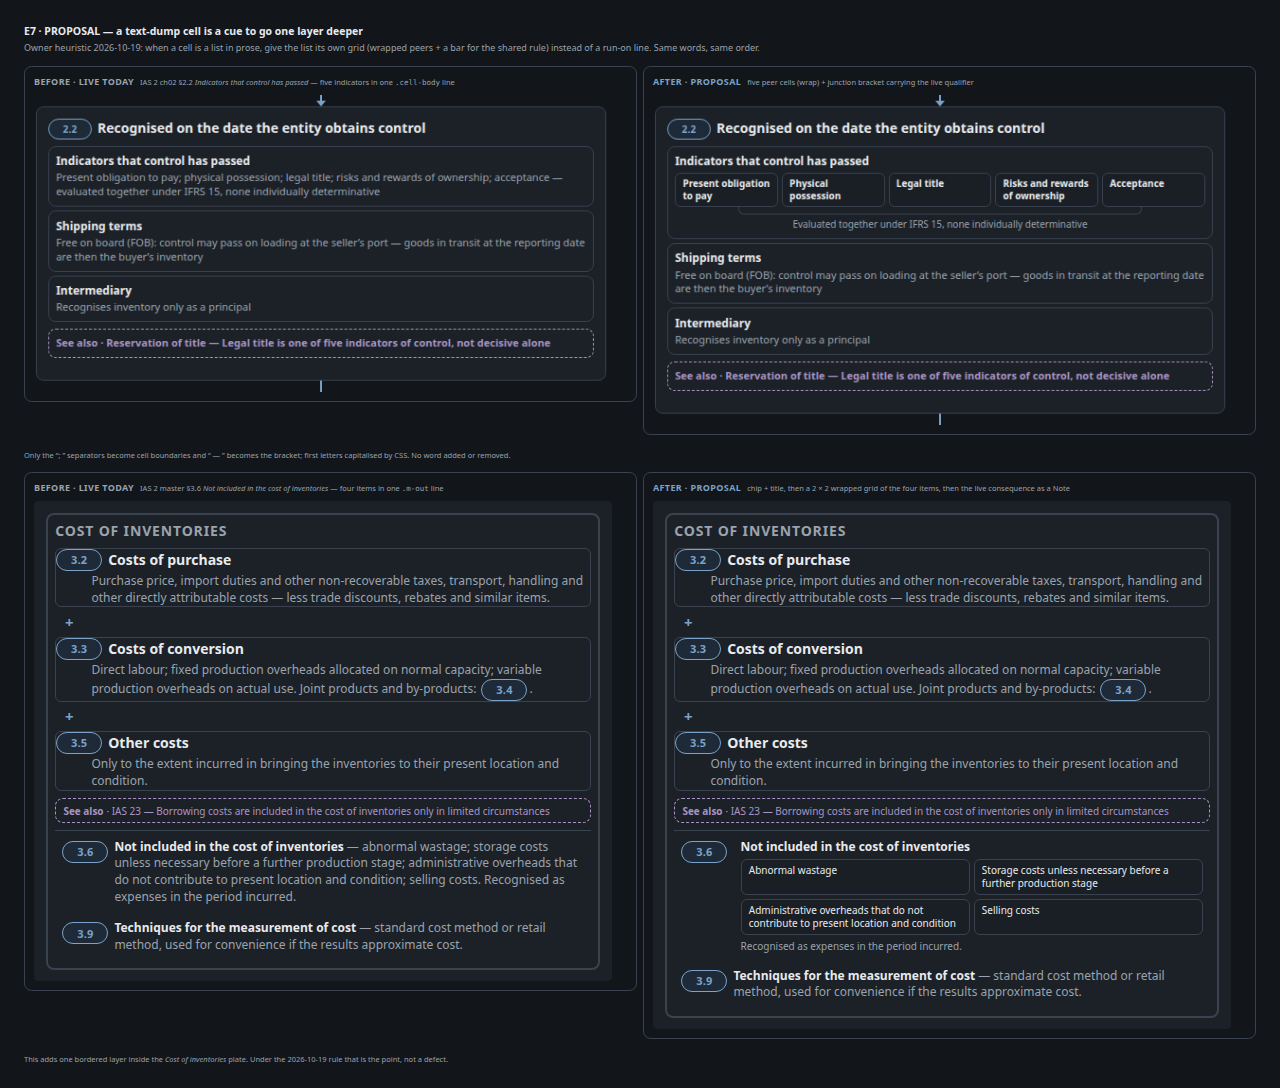
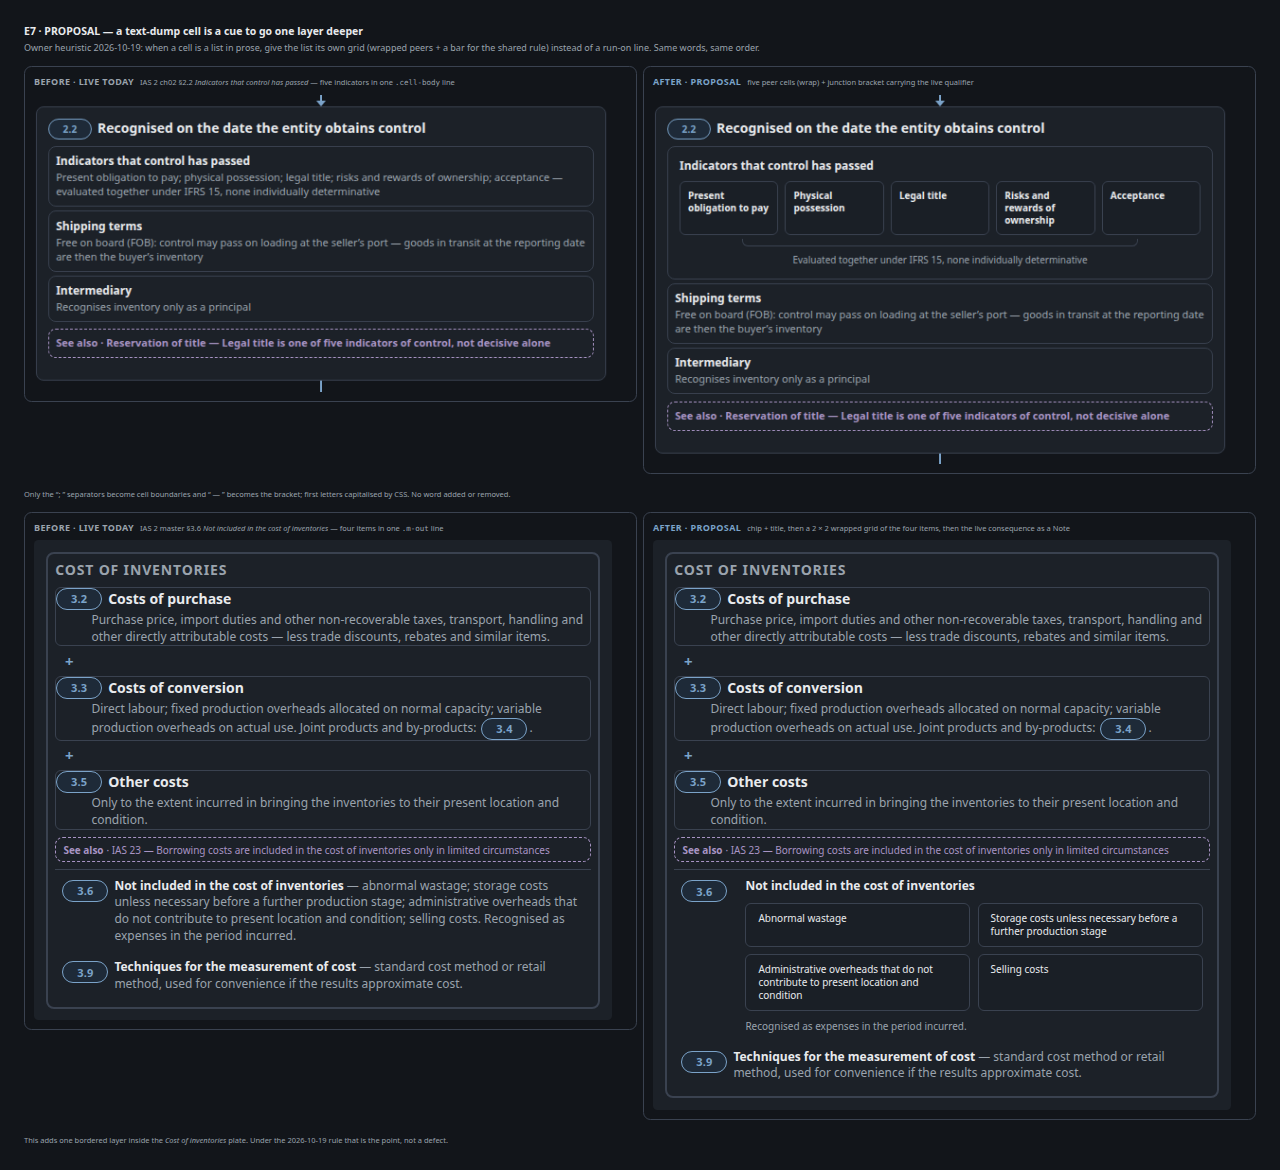
LEGO kit: E7 after panes get inner padding and gaps (not flush)

diff --git a/design/row98-lego-kit/tools/before_after.py b/design/row98-lego-kit/tools/before_after.py
@@ -129,17 +129,19 @@ JOBS = [
     dict(id="E07-ias2-ch02", file=I2 + "ch02-recognition.html", sel="[data-ba=e7]", maxh=None,
          pre=("""() => [...document.querySelectorAll('.st-list .cell-title')]
                  .find(t => t.textContent.startsWith('Indicators that control')).closest('section.q').setAttribute('data-ba', 'e7')""", None),
-         css=".e7-peers{display:grid;grid-template-columns:repeat(auto-fit,minmax(6.25rem,1fr));gap:var(--space-1);margin-top:var(--space-1)}"
+         css=".e7-host{padding:var(--space-3)!important}"
+             ".e7-peers{display:grid;grid-template-columns:repeat(auto-fit,minmax(6.5rem,1fr));gap:var(--space-cell);margin-top:var(--space-2)}"
              ".e7-peer{border:var(--stroke-1) solid var(--line);border-radius:var(--radius-s);background:var(--band);"
-             "padding:var(--space-1) var(--space-cell);color:var(--ink);font-size:var(--t3-fs);font-weight:700;line-height:1.3}"
+             "padding:var(--space-2);color:var(--ink);font-size:var(--t3-fs);font-weight:700;line-height:var(--t3-lh)}"
              ".e7-peer::first-letter{text-transform:uppercase}"
-             ".e7-join{display:block;margin:0 12% 0;height:var(--space-2);border:var(--stroke-1) solid var(--line);border-top:0;"
+             ".e7-join{display:block;margin:var(--space-1) 12% 0;height:var(--space-2);border:var(--stroke-1) solid var(--line);border-top:0;"
              "border-radius:0 0 var(--radius-s) var(--radius-s)}"
-             ".e7-qual{display:block;text-align:center;margin-top:var(--space-1);color:var(--muted);font-size:var(--t3-fs)}"
+             ".e7-qual{display:block;text-align:center;margin-top:var(--space-2);color:var(--muted);font-size:var(--t3-fs)}"
              ".e7-qual::first-letter{text-transform:uppercase}",
          js=("""() => {
            const t = [...document.querySelectorAll('.st-list .cell-title')].find(t => t.textContent.startsWith('Indicators that control'));
            const body = t.parentElement.querySelector('.cell-body');
+           t.parentElement.classList.add('e7-host');
            const [list, qual] = body.textContent.split(' — ');
            const g = document.createElement('span'); g.className = 'e7-peers';
            for (const s of list.split('; ')) { const c = document.createElement('span'); c.className = 'e7-peer'; c.textContent = s; g.append(c); }
@@ -148,11 +150,12 @@ JOBS = [
            body.textContent = ''; body.append(g, j, q);
          }""", None)),
     dict(id="E07-ias2-master", file=I2 + "map-formula-board.html", sel=".m-sum", maxh=None,
-         css=".m-out.e7-region{display:grid;grid-template-columns:auto minmax(0,1fr);column-gap:var(--space-cell);align-items:start}"
-             ".e7-region > span{display:grid;gap:var(--space-1)}"
-             ".e7-peers{display:grid;grid-template-columns:repeat(auto-fit,minmax(13rem,1fr));gap:var(--space-1)}"
+         css=".m-out.e7-region{display:grid;grid-template-columns:auto minmax(0,1fr);column-gap:var(--space-3);align-items:start;"
+             "padding-block:var(--space-2)}"
+             ".e7-region > span{display:grid;gap:var(--space-2)}"
+             ".e7-peers{display:grid;grid-template-columns:repeat(auto-fit,minmax(13rem,1fr));gap:var(--space-cell)}"
              ".e7-peer{border:var(--stroke-1) solid var(--line);border-radius:var(--radius-s);background:var(--band);"
-             "padding:var(--space-1) var(--space-cell);color:var(--ink);font-size:var(--t3-fs);line-height:1.3}"
+             "padding:var(--space-2) var(--space-3);color:var(--ink);font-size:var(--t3-fs);line-height:var(--t3-lh)}"
              ".e7-peer::first-letter{text-transform:uppercase}"
              ".e7-note{font-size:var(--t3-fs);color:var(--muted)}",
          js=("""() => {
